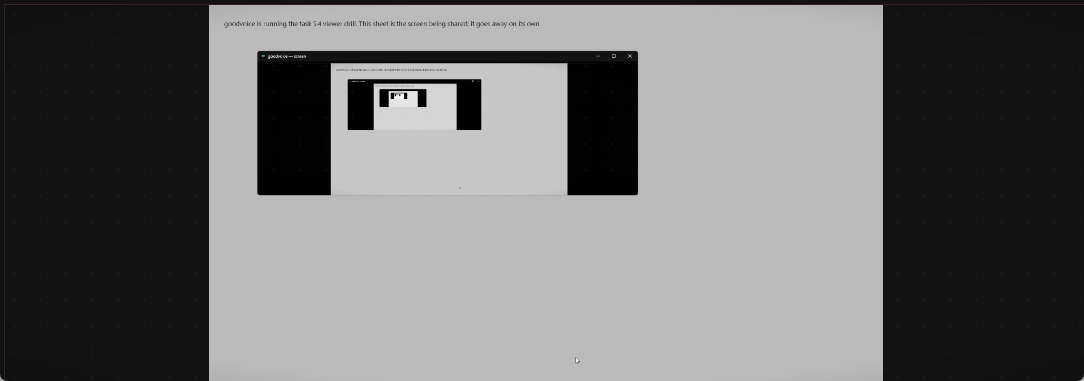
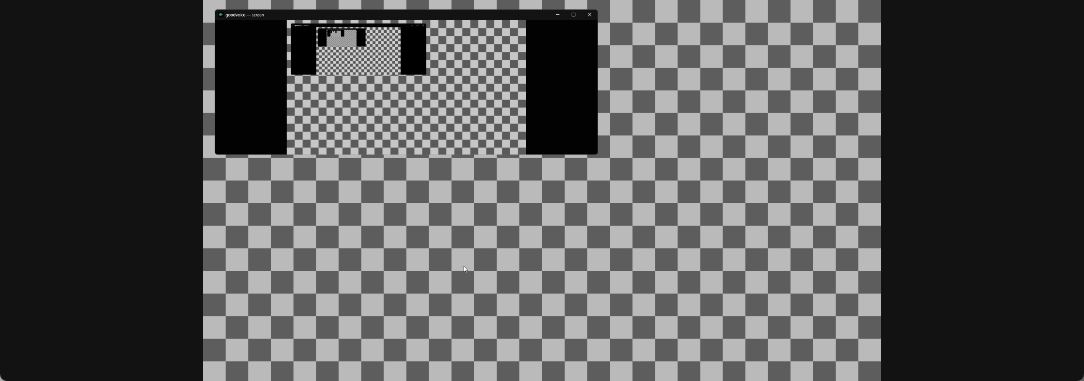
fix(testing): read the letterbox off the border, not the corner pixel
viewer.ps1's "as opened" rows had stopped finding a picture: 0x0, 0x75,
0x114, 213x435, 105x57 where viewer.md records 954x534 at 1.787 on every
cycle. The resize rows in the same runs were still right and both runs
passed their real gate, and it reproduced on unmodified main.

Measure-Picture read its reference colour from pixel (0,0) and called
everything more than 40 luminance away from it picture. That is a reading
of the letterbox only when there is letterbox. The viewer opens at 960x540
onto a 16:9 monitor, so object-fit: contain produces none at all, the
corner is the picture's own top-left, and the comparison became the picture
against itself. The old 98% was not measuring a boundary either — it was
measuring how much of a busy desktop differed from its own corner.

Not the grey-on-grey theory: measured off the shots, the letterbox is the
retro palette's near-black --bg and the sheet is grey 176, 158 apart on a
scale whose threshold is 40.

Two changes, neither sufficient alone. The reference is now the mode of the
luminances along all four edges, where the letterbox still wins the count
whenever there is any and no single stray pixel decides the measurement.
And the backdrop is a 64-pixel chequer in greys 176 and 96, because a
picture that fills the window has no boundary to find and a flat sheet
cannot say whether the client area is picture at all — a picture of one
colour edge to edge and an empty window painted one colour are the same
[…]

diff --git a/.harness/plan.md b/.harness/plan.md
@@ -21,18 +21,25 @@
 
 ## Start here
 
-**Where this stopped:** 2026-08-27, with §7.9 closed and a bug fixed — DR-45.
-A viewer that closed kept receiving the whole share: 62.7 of 62.9 kB/s still on
-the wire, on every client that had ever opened one, because giving up the
-viewer aborted a playback task and told Cloudflare nothing. Two things came out
-of it. `rtc::wire` is the instrument — webrtc's own transport and per-SSRC
-counters, which sit *below* the read that closing the viewer stops, and which
-is why this was invisible until now. `close_pull` in `rtc::session` is the fix,
-and the closed phase is now the never-opened floor to a tenth of a kB/s. Same
-day, §7.10 closed as **refused** (DR-44): nothing on Cloudflare ever asks this
+**Where this stopped:** 2026-08-27, with §7.14 closed — DR-46. `viewer.ps1`'s
+"as opened" rows had stopped finding a picture, and the cause was the
+measurement rather than the viewer: `Measure-Picture` read its reference colour
+from pixel (0,0), and the corner is only letterbox when there *is* letterbox.
+The viewer opens at 960×540 onto a 16:9 monitor, so `object-fit: contain`
+produces none at all and the comparison became the picture against its own
+top-left pixel. The reference is now the mode of the four edges, and the
+backdrop is a chequer so that a picture filling the window has variation to be
+found by. The grey-on-grey guess this file used to carry was wrong: the
+letterbox is near-black and the sheet is grey.
+
+Earlier the same day, §7.9 closed with DR-45 — a viewer that closed kept
+receiving the whole share, 62.7 of 62.9 kB/s, because giving up the viewer
+aborted a playback task and told Cloudflare nothing. `rtc::wire` is the
+instrument that made it visible and `close_pull` in `rtc::session` is the fix.
+And §7.10 closed as **refused** (DR-44): nothing on Cloudflare ever asks this
 client for a picture. Phases 0–5 are closed, and so are §6.1, §6.2, §7.1–§7.6,
-§7.9, §7.10 and §7.12. What is open is §6.3, §6.4, §7.7, §7.8, §7.11, §7.13 and
-the new §7.14. Nothing else in this file needs reading first.
+§7.9, §7.10, §7.12 and §7.14. What is open is §6.3, §6.4, §7.7, §7.8, §7.11 and
+§7.13. Nothing else in this file needs reading first.
 
 **`main` is ahead of the `v0.1.0` tag now.** The draft release's installers were
 built from `ca9c74c` and carry neither §7.12's fix nor §7.9's. That does not
@@ -65,18 +72,20 @@ release* is code.
    their checksums. What is left is a person pressing publish, and then the
    DoD's own verification, which is row 1 above.
 
-**The one open row that is not blocked on hardware or a person** is §7.14, and
-it is a measurement script rather than the app: `viewer.ps1`'s "as opened"
-rows stopped finding the picture. It reproduces on unmodified `main`, so it is
-not §7.9's doing, and both runs still passed their real gate — 0 seconds below
-45 frames.
+**There is no longer an open row that is not blocked on hardware or a person.**
+§7.14 was the last of them. §7.7 and §7.8 want a second machine, §7.11 wants a
+Cloudflare account nobody here has, and §7.13 wants a click in `mmsys.cpl` and
+a monitor with speakers — the table in Phase 7 says which is which.
 
 **What no longer needs re-discovering.** Three things this file used to open
 with are settled and should not be re-derived. **Windows' per-process IO
 counters cannot see the media sockets** — 5.2 / 5.4 / 5.6 kB/s was never about
 video, and `rtc::wire` is what to reach for instead (DR-45). §7.6 is not waiting on a room: it was
 measured twice at 31.7 dB of cancellation (DR-42), and the far-field version of
-it is §7.13, which blocks nothing. And **injection is refused while an
+it is §7.13, which blocks nothing. **The grey sheet is not the reason
+`viewer.ps1` could not find a picture** — the letterbox is near-black and the
+sheet is grey 176 (DR-46); the corner pixel it read its reference from was.
+And **injection is refused while an
 *elevated* program holds the foreground** — not, as this file once said, while
 somebody is at the machine: measured with the desktop idle 31 minutes and still
 refused, and a click on an ordinary window cleared it (DR-39).
@@ -1077,13 +1086,14 @@ knew about itself. The checkbox is here.
 | 9 | §6.4 README, tag, release | — | **it is the release** |
 | 10 | §7.7 the netdown run | a second machine, or a person and a cable | no |
 | 11 | §7.8 four clients conversing, with the CPU measured | four hosts | no |
-| 12 | §7.9 does Cloudflare stop sending video to a closed viewer | an instrument, then code | no |
-| 13 | §7.10 keyframe on demand, by PLI | code | no |
+| ~~12~~ | ~~§7.9 does Cloudflare stop sending video to a closed viewer~~ — measured and fixed 2026-08-27, DR-45; it did not, and `close_pull` is why it does now | an instrument, then code | — |
+| ~~13~~ | ~~§7.10 keyframe on demand, by PLI~~ — **refused** 2026-08-27, DR-44: nothing on Cloudflare ever asks this client for a picture | code | — |
 | 14 | §7.11 the self-hosting walkthrough on a fresh account | a Cloudflare account nobody here has | no |
-| 15 | §7.12 the rebuilt window comes back somewhere else | code | no |
+| ~~15~~ | ~~§7.12 the rebuilt window comes back somewhere else~~ — fixed 2026-08-26, DR-43; it was cascading down the screen | code | — |
 | 16 | §7.13 a loudspeaker a metre away, not one on the capsule | a click in `mmsys.cpl`, and a monitor with speakers | no |
+| ~~17~~ | ~~§7.14 `viewer.ps1` stopped finding the picture~~ — fixed 2026-08-27, DR-46; the detector read its reference from the corner | a drill | — |
 
-Rows 10–16 do not block the release **as long as the README says so**: a
+Rows 10–17 do not block the release **as long as the README says so**: a
 measured number nobody has taken is not a promise, and 6.4 has to say which of
 these were never run rather than let a reader assume all of them were.
 
@@ -1474,26 +1484,25 @@ these were never run rather than let a reader assume all of them were.
      does not, `echo-room` refuses to report a cancellation and route 1 is the
      answer.
 
-- [ ] **7.14 `viewer.ps1`'s first measurement stopped finding the picture** —
-  found while verifying §7.9 and **not caused by it**: the same run on
-  unmodified `main` gives the same table. The "as opened" rows, which
-  docs/testing/viewer.md records as `954x534, aspect 1.787, 98% lit` on every
-  cycle, now read `0x0`, `0x75`, `0x114`, `213x435`, `105x57` — a picture the
-  detector cannot find. The *resize* rows in the same runs are still correct
-  (`678x381` at 1.78, `504x285` at 1.768), and both runs passed their real
-  gate: 101 s measured, 0 seconds below 45 frames.
-  So this is the script's edge-finder rather than the viewer: the "as opened"
-  shot is taken ~7 s in and the resize shot ~4 s later, and only the first one
-  fails. viewer.md's own warning is the first place to look — the picture and
-  the letterbox have to be different colours, and this share is of a monitor
-  showing the grey sheet, inside a window whose letterbox is grey.
-  Two runs of the app also printed `audio device error: A buffer underrun or
-  overrun occurred` while the voice held throughout; on a third the microphone
-  never came up at all and the run failed outright. Worth reading together.
-  DoD: the aspect table back to a picture on every "as opened" row, or
-  viewer.md corrected to say what the script can actually measure and why.
-  Verify: `docs\testing\viewer.ps1`, and `-NoBackdrop` to test the grey-on-grey
-  theory.
+- [x] **7.14 `viewer.ps1`'s first measurement stopped finding the picture** —
+  found while verifying §7.9 and **not caused by it**. Closed by **DR-46**, and
+  the grey-on-grey theory was wrong: the letterbox is the retro palette's
+  near-black `--bg` and the sheet is grey 176, 158 apart on a scale whose
+  threshold is 40. What was wrong is that `Measure-Picture` read its reference
+  colour from pixel (0,0), and the corner is only letterbox when there *is*
+  letterbox — the viewer opens at 960×540 onto a 16:9 monitor, `contain`
+  produces none, and the comparison became the picture against its own top-left
+  pixel. The old `98% lit` was not measuring a boundary either; it was
+  measuring how much of a busy desktop differed from its own corner. Two
+  changes, neither sufficient alone: the reference is now the mode of the four
+  edges, and the backdrop is a 64-pixel chequer in greys 176 and 96 so that a
+  picture filling the window has variation to be found by. Every "as opened"
+  row is now `960x540, aspect 1.778, 100% lit`, the resize rows land on the
+  arithmetic (677 predicted / 678 measured, 283 / 285), and the voice gate
+  passed throughout: 101 s measured, 0 below 45 frames, lowest 49.
+  `-NoBackdrop` measures nothing on this desktop — dark terminal into a
+  near-black letterbox — which is viewer.md's existing warning, measured.
+  `docs/ui/viewer-letterbox.png` retaken.
 
 ## Decision Records (§DR)
 
@@ -4766,3 +4775,76 @@ The Worker needed no change — it has proxied `tracks/close` since task 2.3 and
 nothing had ever called it. `rtc::wire` outlives this row: it is the seam for
 any future question of the form "is the wire carrying what we think it is", and
 the answer to why the per-process IO counters must never be asked one again.
+
+### DR-46: the corner is only letterbox when there is letterbox (2026-08-27)
+
+**Context.** §7.14. `viewer.ps1`'s "as opened" rows stopped finding a picture:
+`0x0`, `0x75`, `0x114`, `213x435`, `105x57` where viewer.md records `954x534,
+aspect 1.787, 98% lit` on every cycle. The *resize* rows in the same runs were
+still right, and both runs passed their real gate. It reproduced on unmodified
+`main`, so it was never §7.9's doing.
+
+**What it was not.** viewer.md's own warning — the picture and the letterbox
+have to be different colours — was the first suspect and is not the answer
+here. Measured from the shots: the letterbox is the retro palette's `--bg`,
+near-black, and the sheet is grey 176. They are 158 apart on a scale where the
+detector's threshold is 40.
+
+**What it was.** `Measure-Picture` read its reference colour from pixel (0,0)
+and called every pixel more than 40 away from it "picture". That is only a
+reading of the letterbox when there *is* letterbox. The viewer opens at 960×540
+onto a 16:9 monitor, so `object-fit: contain` produces none at all — the corner
+is the picture's own top-left, the comparison is the picture against itself,
+and a share of a flat grey sheet comes back as nothing. The old 98% was never
+measuring a boundary either: it was measuring how much of a *busy* desktop
+differed from its own top-left pixel, which is a number that says nothing about
+where the picture ends. The row has been unmeasurable as written since the day
+the sheet went in; it only started *looking* wrong when the sheet became the
+whole of what was on screen.
+
+**Decision.** Two changes, and each is insufficient alone.
+
+1. **The reference is the mode of the four edges**, not the corner pixel.
+   Wherever there is letterbox it still wins the count along the whole border,
+   and one stray pixel — a cursor, a nested window's edge — no longer decides
+   the measurement.
+2. **The backdrop is a chequer**, 64-pixel squares in greys 176 and 96. A
+   picture that fills the window has no boundary to find, so the only honest
+   question left is whether the client area *is* picture, and a flat sheet
+   cannot answer it: a picture of one colour edge to edge and an empty window
+   painted one colour are the same pixels. Two greys 80 apart put variation in
+   every row and every column. Both greys stay clear of any palette's `--bg`,
+   light (238) or dark (18), by more than the threshold.
+
+**Measurements.** Same drill, same machine, four cycles:
+
+```
+  cycle  shape           window       picture      aspect  lit
+  1      as opened       960x540      960x540      1,778   1
+  2      as opened       960x540      960x540      1,778   1
+  2      stretched wide  1084x381     678x381      1,78    0,624
+  3      as opened       960x540      960x540      1,778   1
+  3      squashed tall   504x661      504x285      1,768   0,43
+  4      as opened       960x540      960x540      1,778   1
+```
+
+Every "as opened" row is a picture, and it is the whole client area because
+that window is already the source's shape. The resize rows are unchanged in
+kind and now land on the arithmetic exactly: 677 wide predicted, 678 measured;
+283 high predicted, 285 measured. The voice gate passed both before and after —
+101 seconds measured, 0 below 45 frames, lowest 49.
+
+**`-NoBackdrop` on this desktop measures nothing**, which is the point of the
+sheet rather than a regression: `0x0`, `39x63`, `3x3`, `12x3`, `0x0` over three
+cycles whose voice gate passed. The desktop is a dark terminal and a dark
+browser, the letterbox is near-black, and the two are inside the threshold of
+each other. That is viewer.md's existing warning, measured.
+
+**Consequences.** `docs/ui/viewer-letterbox.png` is retaken, since it is the
+stretched row as a person sees it and that row now has a chequer in it.
+`keyframe.ps1` keeps its flat sheet: its measurement is keyframes and bytes,
+and a screen that never changes does not care what colour it is. Two runs
+printed `audio device error: A buffer underrun or overrun occurred` while the
+voice held throughout and the gate passed on both — noted here because §7.14
+asked for it to be read together with the aspect table, and it is unrelated to
+it.

diff --git a/docs/testing/viewer.md b/docs/testing/viewer.md
@@ -35,20 +35,20 @@ powershell -NoProfile -ExecutionPolicy Bypass -File docs\testing\viewer.ps1 -Ski
 What one run says, four cycles by default:
 
 ```
-  t+  5s  the sharer is live at 1280x720 on hardware after 0.9 s
+  t+  4s  the sharer is live at 1280x720 on hardware after 0.9 s
   t+  7s  the app offers "WATCH SHARER'S SCREEN"     the roster reached the app
   t+  7s  cycle 1: the viewer is open
-  t+ 14s  cycle 1: window 960x540, picture 954x534, aspect 1.787, 98% of it lit
-  t+ 15s  cycle 1: the viewer is closed
+  t+ 14s  cycle 1: window 960x540, picture 960x540, aspect 1.778, 100% of it lit
+  t+ 14s  cycle 1: the viewer is closed
    ... three more, two of them resized ...
 
   cycle  shape           window       picture      aspect  lit
-  1      as opened       960x540      954x534      1,787   0,983
-  2      as opened       960x540      954x534      1,787   0,983
-  2      stretched wide  1084x381     675x375      1,8     0,612
-  3      as opened       960x540      954x534      1,787   0,983
-  3      squashed tall   504x661      498x282      1,766   0,42
-  4      as opened       960x540      954x534      1,787   0,983
+  1      as opened       960x540      960x540      1,778   1
+  2      as opened       960x540      960x540      1,778   1
+  2      stretched wide  1084x381     678x381      1,78    0,624
+  3      as opened       960x540      960x540      1,778   1
+  3      squashed tall   504x661      504x285      1,768   0,43
+  4      as opened       960x540      960x540      1,778   1
 
 - the app was first heard at 5 s
 - 101 seconds measured, 0 of them below 45 frames
@@ -57,17 +57,24 @@ What one run says, four cycles by default:
 
 **The aspect column is the claim.** 16:9 is 1.778. A window stretched to 2.85:1
 and one squashed to 0.76:1 both show a picture at 1.77–1.80 — the letterbox
-grows and the picture keeps its shape. `675 × 375` is what `object-fit:
+grows and the picture keeps its shape. `678 × 381` is what `object-fit:
 contain` gives a 1280×720 source in a 1084×381 client area (677 wide,
-arithmetically); `498 × 282` is the same in a 504×661 one (283 high).
+arithmetically); `504 × 285` is the same in a 504×661 one (283 high).
+
+**The "as opened" row is a different question**, and DR-46 is why it is worth
+saying so. The window opens at 960×540 onto a monitor that is 16:9, so
+`contain` has nothing to letterbox: the picture is the client area, edge to
+edge, and `960 × 540` is the right answer rather than a suspiciously round one.
+What that row proves is that a picture arrived at all and that the default
+window does not crop it — the *shape* claim is the two resized rows.
 
 `docs/ui/viewer-letterbox.png` is that middle row as a person sees it: the
 viewer stretched to 1084×381, the sheet letterboxed inside it, and — because
 the sheet is the whole monitor — the viewer showing itself showing itself.
 
-**"lit" is how much of the window the picture covers.** 98% with no letterbox
-to speak of, 61% stretched wide, 42% squashed tall. Zero means a viewer that
-never got a picture, which is the failure DR-33 was about.
+**"lit" is how much of the window the picture covers.** 100% as opened, where
+there is no letterbox at all, 62% stretched wide, 43% squashed tall. Zero means
+a viewer that never got a picture, which is the failure DR-33 was about.
 
 **The frames-a-second table is the definition of done.** A 20 ms frame path
 delivers fifty a second; the drill fails the run if any second between the app
@@ -83,13 +90,22 @@ viewer's client area before every capture and reports `not measured` rather
 than measuring somebody's browser. Two runs during this task's own verification
 did exactly that.
 
-**The grey sheet is not decoration.** The aspect measurement finds where the
-picture ends and the letterbox begins, which it can only do if they are
-different colours. Sharing a desktop whose wallpaper is nearly black into a
-window whose theme background is nearly black measures nothing — a fact about
-that desktop rather than about the viewer. The sheet is also what keeps
-whatever the person at the machine had on screen out of the PNGs. `-NoBackdrop`
-turns it off.
+**The chequered sheet is not decoration, and neither are the squares.** The
+aspect measurement finds where the picture ends and the letterbox begins, which
+it can only do if they are different colours. Sharing a desktop whose wallpaper
+is nearly black into a window whose theme background is nearly black measures
+nothing — a fact about that desktop rather than about the viewer, and
+`-NoBackdrop` on this machine's own desktop measures exactly that: `0x0`,
+`39x63`, `3x3`, every row of a run whose voice gate passed. The sheet is also
+what keeps whatever the person at the machine had on screen out of the PNGs.
+
+The squares are the other half, and DR-46 is where they come from. A window
+already the source's shape has no letterbox, so there is no boundary to find
+and the only question left is whether the whole client area is picture — which
+a *flat* sheet cannot answer, because a picture of one colour edge to edge and
+an empty window painted one colour are the same pixels. Two greys 80 apart put
+variation in every row and every column, so the picture is found by what it
+contains rather than by where it stops.
 
 **A skin renames every button, and some of them are toggles.** The terminal
 skin's `text-transform: uppercase` reaches the accessible name (DR-26), so
@@ -123,7 +139,7 @@ nothing at all because WGC announces changes and there were none. It is now 11
 keyframes and 69 kB, which is 3.5 kB/s for a screen that is doing nothing.
 
 **Touching nothing is harder than it reads**, and `docs\testing\keyframe.ps1`
-is what stopped relying on it: it puts this file's grey sheet over the monitor,
+is what stopped relying on it: it puts a plain grey sheet over the monitor,
 runs the drills hidden with their output redirected to files, and takes the
 sheet down. It also runs `share-drill --no-viewer`, which counts what the
 *sharer* put on the wire rather than what reached anybody — the two are the
